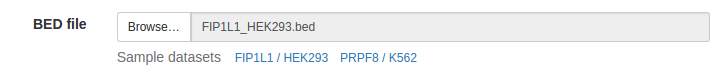
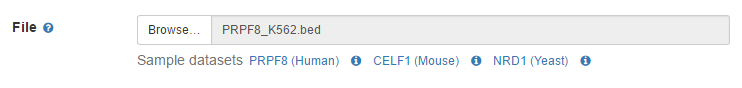
updating tutorial page with the new features

diff --git a/tutorial.html b/tutorial.html
@@ -63,28 +63,41 @@
         <p>
             This tutorial goes through a sample gene set association analysis covering all features of Seten browser user interface.
         </p>
-        <h3>1. Select a BED file</h3>
+
+        <h3>1. Select a file</h3>
         <p>
             <a href="assets/img/tutorial_1.png" target="_blank">
-                <img class="img-tutorial img-responsive" src="assets/img/tutorial_1.png" alt="Select a BED file" />
+                <img class="img-tutorial img-responsive" src="assets/img/tutorial_1.png" alt="Select a file" />
             </a>
         </p>
         <p>
-            Make sure you have <a href="docs.html#inputs-bed-file" target="_blank">a valid BED file</a> or just pick one from <strong>Sample datasets</strong> in the BED file option for analysis.
+            Make sure you have <a href="docs.html#inputs-file" target="_blank">a valid file</a> or just pick one BED file from <strong>Sample datasets</strong> in the file option for analysis.
         </p>
-        <h3>2. Select gene set collections</h3>
+
+        <h3>2. Select an organism and gene set collections</h3>
         <p>
             <a href="assets/img/tutorial_2.png" target="_blank">
-                <img class="img-tutorial img-responsive" src="assets/img/tutorial_2.png" alt="Select gene set collections" />
+                <img class="img-tutorial img-responsive" src="assets/img/tutorial_2.png" alt="Select an organism and gene set collections" />
             </a>
         </p>
         <p>
-            There are <a href="docs.html#inputs-gene-set-collections" target="_blank">multiple gene set collections available</a>, just select the ones you are interested in. If you want to select more than one gene set collection, hold Ctrl key to do so.
+            There are <a href="docs.html#inputs-organism" target="_blank">multiple organisms</a> and <a href="docs.html#inputs-gene-set-collections" target="_blank">multiple gene set collections available</a>, just select the organism and gene set collections you are interested in.
         </p>
-        <h3>3. Start the analysis</h3>
+
+        <h3>3. Advanced parameters</h3>
         <p>
             <a href="assets/img/tutorial_3.png" target="_blank">
-                <img class="img-tutorial img-responsive" src="assets/img/tutorial_3.png" alt="Start the analysis" />
+                <img class="img-tutorial img-responsive" src="assets/img/tutorial_3.png" alt="Advanced parameters" />
+            </a>
+        </p>
+        <p>
+            There are a number of parameters to customize the enrichment analysis. For this tutorial, you can keep them as default. These parameters are documented in the <a href="docs.html" target="_blank">Documentation</a>.
+        </p>
+
+        <h3>4. Start the analysis</h3>
+        <p>
+            <a href="assets/img/tutorial_4.png" target="_blank">
+                <img class="img-tutorial img-responsive" src="assets/img/tutorial_4.png" alt="Start the analysis" />
             </a>
         </p>
         <p>
@@ -93,46 +106,64 @@
         <p>
             Note that the <strong>Analyze</strong> panel will be disabled during the analysis and the <strong>Submit</strong> button will be replaced with the <strong>Cancel</strong> button after it starts. You may click to this button, and later confirm to cancel the analysis.
         </p>
-        <h3>4. View results</h3>
-        <p>
-            <a href="assets/img/tutorial_4.png" target="_blank">
-                <img class="img-tutorial img-responsive" src="assets/img/tutorial_4.png" alt="View results" />
-            </a>
-        </p>
-        <p>
-            As the analysis goes on, the results that are complete will appear below the progress bar. You can click the name of the gene set collection in the result header to expand the view. After expanding it, for significant hits, you will see <a href="docs.html#outputs-bar-charts" target="_blank">a bar chart</a> and <a href="docs.html#outputs-tables" target="_blank">a table</a>. The table is sortable and by default it is sorted by combined p-value in ascending order.
-        </p>
-        <h3>5. Compare results</h3>
+
+        <h3>5. View results</h3>
         <p>
             <a href="assets/img/tutorial_5.png" target="_blank">
-                <img class="img-tutorial img-responsive" src="assets/img/tutorial_5.png" alt="Compare results" />
+                <img class="img-tutorial img-responsive" src="assets/img/tutorial_5.png" alt="View results" />
             </a>
         </p>
         <p>
-            Using the <strong>Compare</strong> button, you can switch to another view where via <a href="docs.html#outputs-bubble-charts" target="_blank">a bubble chart</a> you can compare multiple gene set association results you obtained from <strong>Explore</strong> and/or <strong>Analyze</strong> panels. Just click again to switch back to the previous view.
+            As the analysis goes on, the results that are complete will appear below the progress bar. You can click the name of the gene set collection in the result header to expand the view. After expanding it, for significant hits, you will see <a href="docs.html#outputs-bar-charts" target="_blank">a bar chart</a> and <a href="docs.html#outputs-tables" target="_blank">a table</a>. The table is sortable and by default it is sorted by gene set p-value or corrected functional p-value in ascending order.
         </p>
-        <h3>6. Configure results</h3>
+
+        <h3>6. View overlapping genes per gene set</h3>
         <p>
             <a href="assets/img/tutorial_6.png" target="_blank">
-                <img class="img-tutorial img-responsive" src="assets/img/tutorial_6.png" alt="Configure results" />
+                <img class="img-tutorial img-responsive" src="assets/img/tutorial_6.png" alt="View overlapping genes per gene set" />
             </a>
         </p>
         <p>
-            Just above the results, there will be a small form named <strong>Options</strong> which can be used to configure view based on precent and combined p-value thresholds. Change the default combined p-value threshold 0.01 to 0.05 and observe the results. You may have more gene sets available under this threshold. You may change the percent threshold as you wish.
+            In the results table, each percentage value has a link to a pop up where the overlapping genes between the dataset given and corresponsing gene set are listed along with their scores that are used in the gene set enrichment analysis. Also, these genes are linked to their respective sources for further understanding.
         </p>
-        <h3>7. Export results</h3>
+        <p>
+          The gene and scores in the pop up can be exported using the <strong>Export</strong> button on the pop up. Also, using <strong>Export gene scores</strong> button on the righthand side of the result title, it's possible to obtain scores for all distinct genes in the dataset.
+        </p>
+
+        <h3>7. Configure results</h3>
         <p>
             <a href="assets/img/tutorial_7.png" target="_blank">
-                <img class="img-tutorial img-responsive" src="assets/img/tutorial_7.png" alt="Export results" />
+                <img class="img-tutorial img-responsive" src="assets/img/tutorial_7.png" alt="Configure results" />
+            </a>
+        </p>
+        <p>
+            Just above the results, there will be a small form named <strong>Options</strong> which can be used to configure view based on precent and combined p-value thresholds. Change the default combined p-value threshold 0.05 to 0.01 and observe the results. You may have less number of gene sets available under this threshold. You may change the percent threshold as you wish.
+        </p>
+
+        <h3>8. Export results</h3>
+        <p>
+            <a href="assets/img/tutorial_8.png" target="_blank">
+                <img class="img-tutorial img-responsive" src="assets/img/tutorial_8.png" alt="Export results" />
             </a>
         </p>
         <p>
             Each result can be exported as a bar chart (SVG formatted) and a table (TSV formatted). Click the bar chart icon on the right of the result header. The bar chart will be downloaded to your computer. You may also click table icon next to it and download a local copy of the result table.
         </p>
-        <h3>8. Explore available precomputed results</h3>
+
+        <h3>9. Compare results</h3>
         <p>
-            <a href="assets/img/tutorial_8.png" target="_blank">
-                <img class="img-tutorial img-responsive" src="assets/img/tutorial_8.png" alt="Explore available pre-computed results" />
+            <a href="assets/img/tutorial_9.png" target="_blank">
+                <img class="img-tutorial img-responsive" src="assets/img/tutorial_9.png" alt="Compare results" />
+            </a>
+        </p>
+        <p>
+            Using the <strong>Compare</strong> button, you can switch to another view where via <a href="docs.html#outputs-bubble-charts" target="_blank">a bubble chart</a> you can compare multiple gene set association results you obtained from <strong>Explore</strong> and/or <strong>Analyze</strong> panels. Just click again to switch back to the previous view.
+        </p>
+
+        <h3>10. Explore available precomputed results</h3>
+        <p>
+            <a href="assets/img/tutorial_10.png" target="_blank">
+                <img class="img-tutorial img-responsive" src="assets/img/tutorial_10.png" alt="Explore available pre-computed results" />
             </a>
         </p>
         <p>

diff --git a/docs.html b/docs.html
@@ -93,7 +93,6 @@
                     <li>Requires single-line command installation (requires Python 2.7+, Python package manager)</li>
                     <li>Utilizes standard Python multiprocessing module for parallel execution of tasks on multiple cores</li>
                     <li>Inputs single BED file or multiple BED files in a directory</li>
-                    <li>Provides options to use different columns as scores and different methods to compute gene level scores of multiple binding sites</li>
                     <li>Outputs results in TSV formatted tables</li>
                 </ul>
                 <p>
@@ -143,7 +142,18 @@ chr1	1438640	1438660	binding_site_10	12	.	0.00315889
                 <a name="inputs-organism"></a>
                 <h4>Organism</h4>
                 <p>
-                  There are four available organisms provided in Seten's web interface: Human (hg19 build), mouse (mm10 build), rat (rn6 build), fruit fly (dme6 build). It's possible to extend the Seten for more organisms; however, this is only available for Seten's command line interface. Please refer to its GitHub page for more information.
+                  There are six available organisms provided in Seten's web interface:
+                </p>
+                <ul>
+                  <li>Human (hg19 build and hg38 build)</li>
+                  <li>Mouse (mm10 build)</li>
+                  <li>Rat (rn6 build)</li>
+                  <li>Fruit fly (dme6 build)</li>
+                  <li>Worm (cel235 build)</li>
+                  <li>Yeast (r64-1-1 build)</li>
+                </ul>
+                <p>
+                  It's possible to extend the Seten for more organisms; however, this is only available for Seten's command line interface. Please refer to <a href="https://github.com/gungorbudak/seten-cli" target="_blank">its Github page</a> for more information.
                 </p>
                 <a name="inputs-gene-set-collections"></a>
                 <h4>Gene set collections</h4>
@@ -152,11 +162,11 @@ chr1	1438640	1438660	binding_site_10	12	.	0.00315889
                 </p>
                 <ul>
                     <li>Pathways: BIOCARTA (human, mouse)</li>
-                    <li>Pathways: REACTOME (human, mouse, rat, fruit fly)</li>
-                    <li>Pathways: KEGG (human, mouse, rat, fruit fly)</li>
-                    <li>GO: Biological Process (human, mouse, rat, fruit fly)</li>
-                    <li>GO: Molecular Function (human, mouse, rat, fruit fly)</li>
-                    <li>GO: Cellular Compartment (human, mouse, rat, fruit fly)</li>
+                    <li>Pathways: REACTOME (human, mouse, rat, fruit fly, worm, yeast)</li>
+                    <li>Pathways: KEGG (human, mouse, rat, fruit fly, worm, yeast)</li>
+                    <li>GO: Biological Process (human, mouse, rat, fruit fly, worm, yeast)</li>
+                    <li>GO: Molecular Function (human, mouse, rat, fruit fly, worm, yeast)</li>
+                    <li>GO: Cellular Compartment (human, mouse, rat, fruit fly, worm, yeast)</li>
                     <li>Human Phenotype Ontology (human)</li>
                     <li>MalaCards Disease Ontology (human)</li>
                 </ul>
